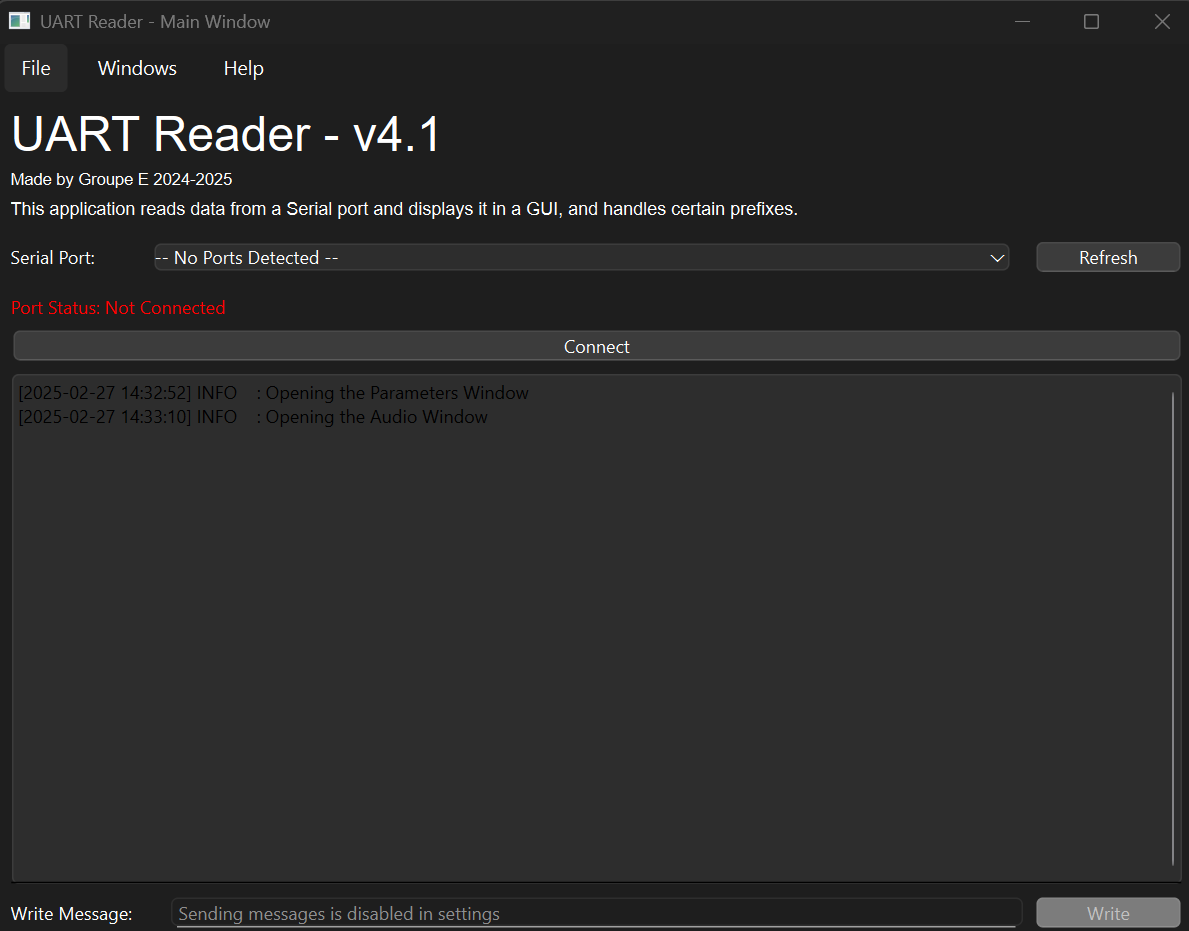
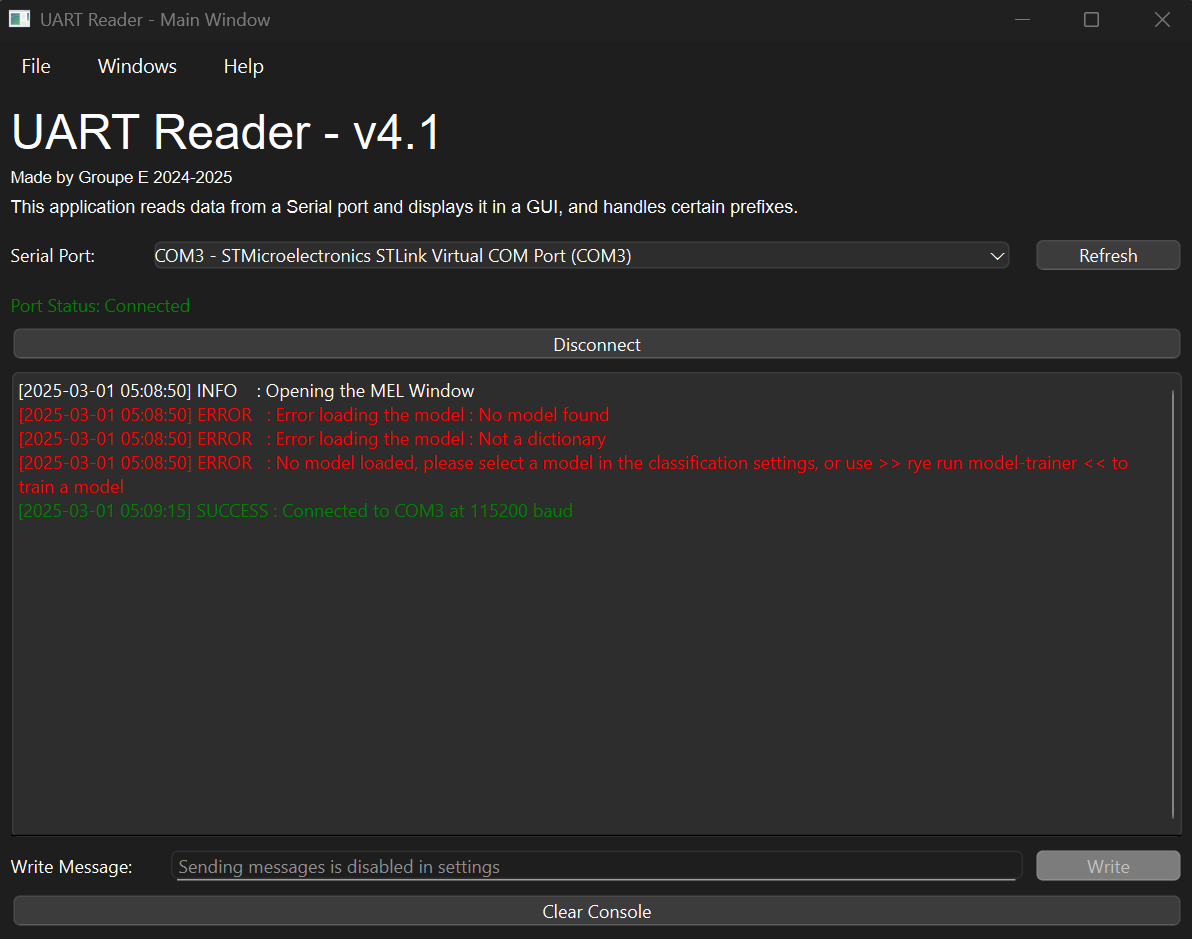
New image and console clear

diff --git a/contrib/src/contrib/uart_reader/__main__.py b/contrib/src/contrib/uart_reader/__main__.py
@@ -1055,6 +1055,10 @@ class GUIMainWindow(QMainWindow):
         self.db.get_item("Serial Settings", "allowwrite").register_callback(
             self.write_box_state_callback
         )
+        # Add the console clear button
+        self.clear_button = QPushButton("Clear Console")
+        self.clear_button.clicked.connect(self.console.clear)
+        self.main_layout.addWidget(self.clear_button)
 
         # Trigger the first callbacks :
         self.refresh_ports()
